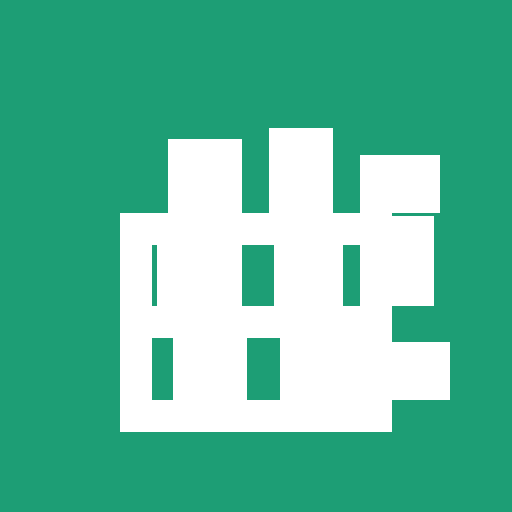
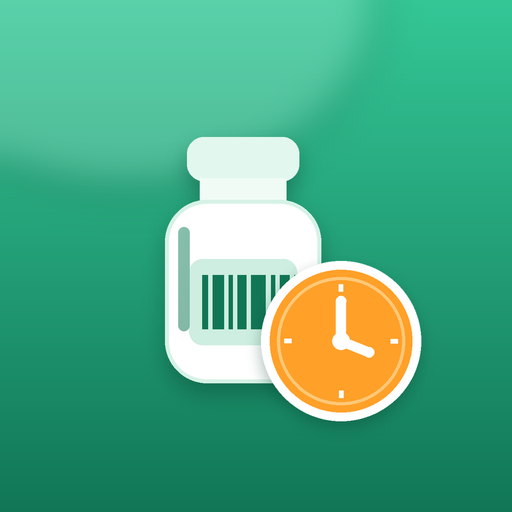
2.1.2: barra delle schede unica con icone complete, layout desktop, icone PWA
La barra in basso era copiata in 5 schermate e in 4 copie le icone erano
troncate (Scansiona = quadrato, Impostazioni = punto, Admin = cerchio). Ora
e' una sola, con la scheda attiva evidenziata da showScreen(). Colonna
centrale su schermi larghi, campo chiave API e checkbox in tema scuro, aree
di tocco piu' grandi, icone della PWA con il disegno dell'add-on. Nuovo
tests/test_gui.js.

diff --git a/dispensa_manager/www/index.html b/dispensa_manager/www/index.html
@@ -114,14 +114,6 @@
       <div id="lista-prodotti"><div class="empty"><div class="spinner"></div></div></div>
     </div>
   </div>
-  <div class="tab-bar">
-    <div class="tab active" onclick="showTab('inventario')"><svg viewBox="0 0 24 24"><path d="M3 9l9-7 9 7v11a2 2 0 01-2 2H5a2 2 0 01-2-2z"/><polyline points="9 22 9 12 15 12 15 22"/></svg><span>Dispensa</span></div>
-    <div class="tab" onclick="showTab('scan')"><svg viewBox="0 0 24 24"><rect x="3" y="3" width="18" height="18" rx="2"/><line x1="7" y1="8" x2="7" y2="16"/><line x1="10" y1="8" x2="10" y2="16"/><line x1="14" y1="8" x2="14" y2="16"/><line x1="17" y1="8" x2="17" y2="16"/></svg><span>Scansiona</span></div>
-    <div class="tab" onclick="showTab('spesa')"><svg viewBox="0 0 24 24"><path d="M6 2L3 6v14a2 2 0 002 2h14a2 2 0 002-2V6l-3-4z"/><line x1="3" y1="6" x2="21" y2="6"/><path d="M16 10a4 4 0 01-8 0"/></svg><span>Spesa</span></div>
-    <div class="tab" onclick="showTab('statistiche')"><svg viewBox="0 0 24 24"><line x1="18" y1="20" x2="18" y2="10"/><line x1="12" y1="20" x2="12" y2="4"/><line x1="6" y1="20" x2="6" y2="14"/></svg><span>Statistiche</span></div>
-    <div class="tab" onclick="showTab('impostazioni')"><svg viewBox="0 0 24 24"><circle cx="12" cy="12" r="3"/><path d="M19.4 15a1.65 1.65 0 00.33 1.82l.06.06a2 2 0 010 2.83 2 2 0 01-2.83 0l-.06-.06a1.65 1.65 0 00-1.82-.33 1.65 1.65 0 00-1 1.51V21a2 2 0 01-4 0v-.09A1.65 1.65 0 009 19.4a1.65 1.65 0 00-1.82.33l-.06.06a2 2 0 01-2.83-2.83l.06-.06A1.65 1.65 0 004.68 15a1.65 1.65 0 00-1.51-1H3a2 2 0 010-4h.09A1.65 1.65 0 004.6 9a1.65 1.65 0 00-.33-1.82l-.06-.06a2 2 0 012.83-2.83l.06.06A1.65 1.65 0 009 4.68a1.65 1.65 0 001-1.51V3a2 2 0 014 0v.09a1.65 1.65 0 001 1.51 1.65 1.65 0 001.82-.33l.06-.06a2 2 0 012.83 2.83l-.06.06A1.65 1.65 0 0019.4 9a1.65 1.65 0 001.51 1H21a2 2 0 010 4h-.09a1.65 1.65 0 00-1.51 1z"/></svg><span>Impostazioni</span></div>
-    <div class="tab tab-admin" onclick="showTab('admin')"><svg viewBox="0 0 24 24"><path d="M17 21v-2a4 4 0 00-4-4H5a4 4 0 00-4 4v2"/><circle cx="9" cy="7" r="4"/><path d="M23 21v-2a4 4 0 00-3-3.87"/><path d="M16 3.13a4 4 0 010 7.75"/></svg><span>Admin</span></div>
-  </div>
 </div>
 
 <!-- SCREEN: Scanner -->
@@ -269,14 +261,6 @@
     <button class="btn btn-primary" onclick="inviaListaSpesaTelegram()" style="margin-bottom:10px;">📤 Invia su Telegram</button>
     <button class="btn btn-secondary" onclick="svuotaCompletati()">🗑 Rimuovi completati</button>
   </div>
-  <div class="tab-bar">
-    <div class="tab" onclick="showTab('inventario')"><svg viewBox="0 0 24 24"><path d="M3 9l9-7 9 7v11a2 2 0 01-2 2H5a2 2 0 01-2-2z"/><polyline points="9 22 9 12 15 12 15 22"/></svg><span>Dispensa</span></div>
-    <div class="tab" onclick="showTab('scan')"><svg viewBox="0 0 24 24"><rect x="3" y="3" width="18" height="18" rx="2"/><line x1="7" y1="8" x2="7" y2="16"/><line x1="10" y1="8" x2="10" y2="16"/><line x1="14" y1="8" x2="14" y2="16"/><line x1="17" y1="8" x2="17" y2="16"/></svg><span>Scansiona</span></div>
-    <div class="tab active" onclick="showTab('spesa')"><svg viewBox="0 0 24 24"><path d="M6 2L3 6v14a2 2 0 002 2h14a2 2 0 002-2V6l-3-4z"/><line x1="3" y1="6" x2="21" y2="6"/><path d="M16 10a4 4 0 01-8 0"/></svg><span>Spesa</span></div>
-    <div class="tab" onclick="showTab('statistiche')"><svg viewBox="0 0 24 24"><line x1="18" y1="20" x2="18" y2="10"/><line x1="12" y1="20" x2="12" y2="4"/><line x1="6" y1="20" x2="6" y2="14"/></svg><span>Statistiche</span></div>
-    <div class="tab" onclick="showTab('impostazioni')"><svg viewBox="0 0 24 24"><circle cx="12" cy="12" r="3"/></svg><span>Impostazioni</span></div>
-    <div class="tab tab-admin" onclick="showTab('admin')"><svg viewBox="0 0 24 24"><circle cx="9" cy="7" r="4"/></svg><span>Admin</span></div>
-  </div>
 </div>
 
 <!-- SCREEN: Statistiche -->
@@ -286,14 +270,6 @@
   </div>
   <div class="content" id="stat-content">
     <div class="empty"><div class="spinner"></div></div>
-  </div>
-  <div class="tab-bar">
-    <div class="tab" onclick="showTab('inventario')"><svg viewBox="0 0 24 24"><path d="M3 9l9-7 9 7v11a2 2 0 01-2 2H5a2 2 0 01-2-2z"/></svg><span>Dispensa</span></div>
-    <div class="tab" onclick="showTab('scan')"><svg viewBox="0 0 24 24"><rect x="3" y="3" width="18" height="18" rx="2"/></svg><span>Scansiona</span></div>
-    <div class="tab" onclick="showTab('spesa')"><svg viewBox="0 0 24 24"><path d="M6 2L3 6v14a2 2 0 002 2h14a2 2 0 002-2V6l-3-4z"/></svg><span>Spesa</span></div>
-    <div class="tab active" onclick="showTab('statistiche')"><svg viewBox="0 0 24 24"><line x1="18" y1="20" x2="18" y2="10"/></svg><span>Statistiche</span></div>
-    <div class="tab" onclick="showTab('impostazioni')"><svg viewBox="0 0 24 24"><circle cx="12" cy="12" r="3"/></svg><span>Impostazioni</span></div>
-    <div class="tab tab-admin" onclick="showTab('admin')"><svg viewBox="0 0 24 24"><circle cx="9" cy="7" r="4"/></svg><span>Admin</span></div>
   </div>
 </div>
 
@@ -335,14 +311,6 @@
       <button class="btn btn-secondary" onclick="doLogout()" style="color:var(--red);">🚪 Esci (logout)</button>
     </div>
     <div style="text-align: center; margin-top: 20px; font-size: 12px; color: var(--hint);">Dispensa Manager v2.0.19</div>
-  </div>
-  <div class="tab-bar">
-    <div class="tab" onclick="showTab('inventario')"><svg viewBox="0 0 24 24"><path d="M3 9l9-7 9 7v11a2 2 0 01-2 2H5a2 2 0 01-2-2z"/></svg><span>Dispensa</span></div>
-    <div class="tab" onclick="showTab('scan')"><svg viewBox="0 0 24 24"><rect x="3" y="3" width="18" height="18" rx="2"/></svg><span>Scansiona</span></div>
-    <div class="tab" onclick="showTab('spesa')"><svg viewBox="0 0 24 24"><path d="M6 2L3 6v14a2 2 0 002 2h14a2 2 0 002-2V6l-3-4z"/></svg><span>Spesa</span></div>
-    <div class="tab" onclick="showTab('statistiche')"><svg viewBox="0 0 24 24"><line x1="18" y1="20" x2="18" y2="10"/></svg><span>Statistiche</span></div>
-    <div class="tab active" onclick="showTab('impostazioni')"><svg viewBox="0 0 24 24"><circle cx="12" cy="12" r="3"/></svg><span>Impostazioni</span></div>
-    <div class="tab tab-admin" onclick="showTab('admin')"><svg viewBox="0 0 24 24"><circle cx="9" cy="7" r="4"/></svg><span>Admin</span></div>
   </div>
 </div>
 
@@ -412,7 +380,7 @@
       <div class="admin-section-title">🔑 API Key per automazioni HA</div>
       <div style="font-size:13px;color:var(--muted);margin-bottom:10px;line-height:1.5;">Usa <code style="background:var(--bg);padding:2px 6px;border-radius:4px;">x-api-key</code> nei tuoi rest_command. Stabile tra riavvii.</div>
       <div style="display:flex;gap:8px;align-items:stretch;margin-bottom:10px;">
-        <input type="text" id="api-key-display" readonly style="flex:1 1 auto;min-width:0;font-family:monospace;font-size:13px;" placeholder="caricamento...">
+        <input type="text" id="api-key-display" class="setting-input" readonly aria-label="API key" style="flex:1 1 auto;min-width:0;margin-bottom:0;font-family:monospace;font-size:13px;" placeholder="caricamento...">
         <button class="btn-sm btn-sm-green" style="flex:0 0 auto;white-space:nowrap;" onclick="copiaApiKey()">📋 Copia</button>
       </div>
       <button class="btn-danger" style="width:100%;padding:10px;" onclick="apriRigeneraApiKey()">🔄 Rigenera chiave</button>
@@ -445,14 +413,6 @@
         </div>
       </div>
     </div>
-  </div>
-  <div class="tab-bar">
-    <div class="tab" onclick="showTab('inventario')"><svg viewBox="0 0 24 24"><path d="M3 9l9-7 9 7v11a2 2 0 01-2 2H5a2 2 0 01-2-2z"/></svg><span>Dispensa</span></div>
-    <div class="tab" onclick="showTab('scan')"><svg viewBox="0 0 24 24"><rect x="3" y="3" width="18" height="18" rx="2"/></svg><span>Scansiona</span></div>
-    <div class="tab" onclick="showTab('spesa')"><svg viewBox="0 0 24 24"><path d="M6 2L3 6v14a2 2 0 002 2h14a2 2 0 002-2V6l-3-4z"/></svg><span>Spesa</span></div>
-    <div class="tab" onclick="showTab('statistiche')"><svg viewBox="0 0 24 24"><line x1="18" y1="20" x2="18" y2="10"/></svg><span>Statistiche</span></div>
-    <div class="tab" onclick="showTab('impostazioni')"><svg viewBox="0 0 24 24"><circle cx="12" cy="12" r="3"/></svg><span>Impostazioni</span></div>
-    <div class="tab tab-admin active" onclick="showTab('admin')"><svg viewBox="0 0 24 24"><circle cx="9" cy="7" r="4"/></svg><span>Admin</span></div>
   </div>
 </div>
 
@@ -567,6 +527,16 @@
     </div>
   </div>
 </div>
+
+<!-- Barra delle schede unica: le icone stanno qui una sola volta, showScreen() evidenzia quella attiva -->
+<nav class="tab-bar" id="tab-bar">
+    <div class="tab active" data-tab="inventario" role="button" tabindex="0" aria-label="Dispensa" onclick="showTab('inventario')"><svg aria-hidden="true" viewBox="0 0 24 24"><path d="M3 9l9-7 9 7v11a2 2 0 01-2 2H5a2 2 0 01-2-2z"/><polyline points="9 22 9 12 15 12 15 22"/></svg><span>Dispensa</span></div>
+    <div class="tab" data-tab="scan" role="button" tabindex="0" aria-label="Scansiona" onclick="showTab('scan')"><svg aria-hidden="true" viewBox="0 0 24 24"><rect x="3" y="3" width="18" height="18" rx="2"/><line x1="7" y1="8" x2="7" y2="16"/><line x1="10" y1="8" x2="10" y2="16"/><line x1="14" y1="8" x2="14" y2="16"/><line x1="17" y1="8" x2="17" y2="16"/></svg><span>Scansiona</span></div>
+    <div class="tab" data-tab="spesa" role="button" tabindex="0" aria-label="Spesa" onclick="showTab('spesa')"><svg aria-hidden="true" viewBox="0 0 24 24"><path d="M6 2L3 6v14a2 2 0 002 2h14a2 2 0 002-2V6l-3-4z"/><line x1="3" y1="6" x2="21" y2="6"/><path d="M16 10a4 4 0 01-8 0"/></svg><span>Spesa</span></div>
+    <div class="tab" data-tab="statistiche" role="button" tabindex="0" aria-label="Statistiche" onclick="showTab('statistiche')"><svg aria-hidden="true" viewBox="0 0 24 24"><line x1="18" y1="20" x2="18" y2="10"/><line x1="12" y1="20" x2="12" y2="4"/><line x1="6" y1="20" x2="6" y2="14"/></svg><span>Statistiche</span></div>
+    <div class="tab" data-tab="impostazioni" role="button" tabindex="0" aria-label="Impostazioni" onclick="showTab('impostazioni')"><svg aria-hidden="true" viewBox="0 0 24 24"><circle cx="12" cy="12" r="3"/><path d="M19.4 15a1.65 1.65 0 00.33 1.82l.06.06a2 2 0 010 2.83 2 2 0 01-2.83 0l-.06-.06a1.65 1.65 0 00-1.82-.33 1.65 1.65 0 00-1 1.51V21a2 2 0 01-4 0v-.09A1.65 1.65 0 009 19.4a1.65 1.65 0 00-1.82.33l-.06.06a2 2 0 01-2.83-2.83l.06-.06A1.65 1.65 0 004.68 15a1.65 1.65 0 00-1.51-1H3a2 2 0 010-4h.09A1.65 1.65 0 004.6 9a1.65 1.65 0 00-.33-1.82l-.06-.06a2 2 0 012.83-2.83l.06.06A1.65 1.65 0 009 4.68a1.65 1.65 0 001-1.51V3a2 2 0 014 0v.09a1.65 1.65 0 001 1.51 1.65 1.65 0 001.82-.33l.06-.06a2 2 0 012.83 2.83l-.06.06A1.65 1.65 0 0019.4 9a1.65 1.65 0 001.51 1H21a2 2 0 010 4h-.09a1.65 1.65 0 00-1.51 1z"/></svg><span>Impostazioni</span></div>
+    <div class="tab tab-admin" data-tab="admin" role="button" tabindex="0" aria-label="Admin" onclick="showTab('admin')"><svg aria-hidden="true" viewBox="0 0 24 24"><path d="M17 21v-2a4 4 0 00-4-4H5a4 4 0 00-4 4v2"/><circle cx="9" cy="7" r="4"/><path d="M23 21v-2a4 4 0 00-3-3.87"/><path d="M16 3.13a4 4 0 010 7.75"/></svg><span>Admin</span></div>
+</nav>
 
 <script src="vendor/chart.umd.min.js"></script>
 <script src="vendor/zxing.min.js"></script>

diff --git a/tests/test_gui.js b/tests/test_gui.js
@@ -1,0 +1,42 @@
+// Controlli statici sulla GUI: node tests/test_gui.js
+// La barra delle schede era copiata in 5 schermate e in 4 copie le icone erano troncate:
+// questo test fallisce se una copia torna o se un'icona perde pezzi.
+const fs = require('fs');
+const path = require('path');
+const www = path.join(__dirname, '..', 'dispensa_manager', 'www');
+const html = fs.readFileSync(path.join(www, 'index.html'), 'utf8');
+const js = fs.readFileSync(path.join(www, 'app.js'), 'utf8');
+const css = fs.readFileSync(path.join(www, 'style.css'), 'utf8');
+
+let ok = 0, tot = 0;
+function verifica(nome, vero) { tot++; if (vero) ok++; console.log((vero ? 'OK  ' : 'FAIL') + ' | ' + nome); }
+
+verifica('una sola barra delle schede', (html.match(/class="tab-bar"/g) || []).length === 1);
+
+const barra = (html.match(/<nav class="tab-bar"[\s\S]*?<\/nav>/) || [''])[0];
+const schede = [...barra.matchAll(/<div class="tab[^"]*" data-tab="([a-z]+)"[\s\S]*?<\/svg><span>([^<]+)<\/span><\/div>/g)];
+verifica('sei schede', schede.length === 6);
+verifica('ordine e nomi', schede.map(s => s[1]).join() === 'inventario,scan,spesa,statistiche,impostazioni,admin');
+
+// elementi minimi per riconoscere l'icona (la casa ha tetto+porta, la scansione il riquadro+4 barre, ecc.)
+const minimi = { inventario: 2, scan: 5, spesa: 3, statistiche: 3, impostazioni: 2, admin: 4 };
+for (const s of schede) {
+  const figli = (s[0].match(/<(path|line|rect|circle|polyline)\b/g) || []).length;
+  verifica('icona completa: ' + s[1] + ' (' + figli + ' elementi, minimo ' + minimi[s[1]] + ')', figli >= minimi[s[1]]);
+}
+verifica("l'icona delle impostazioni e' un ingranaggio, non un punto", /data-tab="impostazioni"[\s\S]*?<path d="M19\.4 15/.test(barra));
+
+// ogni scheda porta a una schermata che esiste e ha la sua scheda evidenziata
+const mappa = [...js.matchAll(/'(screen-[a-z]+)': '([a-z]+)'/g)].map(m => [m[1], m[2]]);
+verifica('mappa schermata→scheda coerente con la barra',
+  mappa.length === 5 && mappa.every(([sch, tab]) => html.includes('id="' + sch + '"') && schede.some(s => s[1] === tab)));
+verifica('showScreen aggiorna la barra', /function showScreen\(id\) \{[\s\S]{0,400}aggiornaTabBar\(id\)/.test(js));
+
+verifica('colonna centrale su schermi larghi', /@media \(min-width: 700px\)[\s\S]*\.tab-bar \{ left: 50%/.test(css));
+verifica("la regola per schermi larghi sta dopo la regola base di .tab-bar (altrimenti viene sovrascritta)",
+  css.lastIndexOf('.tab-bar { left: 50%') > css.indexOf('.tab-bar {\n  position: fixed') || css.lastIndexOf('.tab-bar { left: 50%') > css.indexOf('.tab-bar {\r\n  position: fixed'));
+verifica('campo chiave API con lo stile degli altri campi', /id="api-key-display" class="setting-input"/.test(html));
+verifica('controlli nativi scuri in tema scuro', /\.dark \{ color-scheme: dark; \}/.test(css));
+
+console.log(ok + '/' + tot);
+process.exit(ok === tot ? 0 : 1);

diff --git a/dispensa_manager/www/style.css b/dispensa_manager/www/style.css
@@ -21,6 +21,10 @@ body {
 .screen { display: none; flex-direction: column; min-height: 100dvh; }
 .screen.active { display: flex; }
 
+/* Controlli nativi (checkbox, scrollbar) in tema scuro, con l'accento dell'app */
+.dark { color-scheme: dark; }
+input[type="checkbox"] { accent-color: var(--green); width: 20px; height: 20px; flex-shrink: 0; }
+
 .topbar {
   background: var(--surface); border-bottom: 0.5px solid var(--border);
   padding: calc(var(--safe-top) + 8px) 16px 12px;
@@ -40,6 +44,7 @@ body {
   box-shadow: 0 -1px 8px rgba(0,0,0,0.06);
 }
 .dark .tab-bar { box-shadow: 0 -1px 8px rgba(0,0,0,0.4); }
+.tab:focus-visible { outline: 2px solid var(--green); outline-offset: -2px; border-radius: 10px; }
 .tab {
   flex: 1; display: flex; flex-direction: column; align-items: center;
   padding: 10px 4px 6px; cursor: pointer; gap: 3px;
@@ -233,6 +238,9 @@ body {
 .spesa-check.done::after { content: '\2713'; color: white; font-size: 13px; font-weight: 700; }
 .spesa-nome { flex: 1; font-size: 15px; font-weight: 500; }
 .spesa-nome.done { text-decoration: line-through; color: var(--hint); }
+/* Aree di tocco: i controlli piccoli restano com'erano alla vista ma si toccano meglio (zona invisibile di 7 px intorno) */
+.quick-btn, .spesa-check, .toggle { position: relative; }
+.quick-btn::before, .spesa-check::before, .toggle::before { content: ''; position: absolute; inset: -7px; }
 .spesa-del { font-size: 18px; color: var(--hint); cursor: pointer; padding: 8px; touch-action: manipulation; }
 
 .dark { --bg: #111110; --surface: #1c1c1a; --text: #f0efe8; --muted: #9e9e94; --hint: #6b6b63; --border: rgba(255,255,255,0.10); --green-l: rgba(29,158,117,0.15); --amber-l: rgba(186,117,23,0.15); --red-l: rgba(163,45,45,0.15); --gray-l: rgba(136,135,128,0.12); }
@@ -344,4 +352,10 @@ body {
   .metric-row { grid-template-columns: repeat(2, 1fr); }
   .metric-val { font-size: 20px; }
   .topbar-title { font-size: 15px; }
+}
+
+/* Schermo largo (PC, tablet orizzontale): colonna centrale come sul telefono, invece di righe lunghe un metro */
+@media (min-width: 700px) {
+  .screen { max-width: 640px; margin: 0 auto; box-shadow: 0 0 0 0.5px var(--border); }
+  .tab-bar { left: 50%; right: auto; width: 100%; max-width: 640px; transform: translateX(-50%); }
 }

diff --git a/dispensa_manager/www/app.js b/dispensa_manager/www/app.js
@@ -186,9 +186,20 @@ let esauritiOpen = false;
 let bulkMode = false;
 let bulkSelected = new Set();
 
+// Schermata → scheda evidenziata nella barra in basso (le altre schermate non hanno la barra)
+const TAB_DI_SCHERMATA = { 'screen-inventario': 'inventario', 'screen-spesa': 'spesa', 'screen-statistiche': 'statistiche', 'screen-impostazioni': 'impostazioni', 'screen-admin': 'admin' };
+function aggiornaTabBar(id) {
+  const bar = document.getElementById('tab-bar');
+  if (!bar) return;
+  const attiva = TAB_DI_SCHERMATA[id];
+  bar.style.display = attiva ? '' : 'none';
+  bar.querySelectorAll('.tab').forEach(t => { t.classList.toggle('active', t.dataset.tab === attiva); if (t.dataset.tab === attiva) t.setAttribute('aria-current', 'page'); else t.removeAttribute('aria-current'); });
+}
+
 function showScreen(id) {
   document.querySelectorAll('.screen').forEach(s => s.classList.remove('active'));
   document.getElementById(id).classList.add('active');
+  aggiornaTabBar(id);
   // Exit bulk mode quando lasciamo inventario
   if (id !== 'screen-inventario' && bulkMode) exitBulkMode();
   if (id === 'screen-inventario') caricaInventario();
@@ -197,6 +208,11 @@ function showScreen(id) {
   if (id === 'screen-scan') avviaScanner();
   else fermaScanner();
 }
+
+document.addEventListener('keydown', (e) => {
+  const t = e.target && e.target.closest ? e.target.closest('.tab') : null;
+  if (t && (e.key === 'Enter' || e.key === ' ')) { e.preventDefault(); t.click(); }
+});
 
 function showTab(tab) {
   if (tab === 'inventario') showScreen('screen-inventario');

diff --git a/dispensa_manager/www/sw.js b/dispensa_manager/www/sw.js
@@ -1,4 +1,4 @@
-const CACHE = 'dispensa-v12';
+const CACHE = 'dispensa-v13';
 
 // Librerie leggere in locale: pronte subito. Quelle pesanti dell'OCR (worker, core WASM, dati lingua)
 // si mettono in cache alla prima lettura.

diff --git a/dispensa_manager/database.py b/dispensa_manager/database.py
@@ -15,7 +15,7 @@ OPTIONS_PATH = "/data/options.json"
 IMAGES_DIR = os.path.join(os.path.dirname(DB_PATH), "dispensa", "images")
 BACKUPS_DIR = os.path.join(os.path.dirname(DB_PATH), "dispensa", "backups")
 
-APP_VERSION = "2.1.1"
+APP_VERSION = "2.1.2"
 SCHEMA_VERSION = 7
 
 

diff --git a/CHANGELOG.md b/CHANGELOG.md
@@ -5,6 +5,25 @@ Il formato segue [Keep a Changelog](https://keepachangelog.com/it/1.0.0/).
 
 ---
 
+## [2.1.2] — 2026-11-02
+
+Revisione della GUI pagina per pagina (inventario, scansione, conferma, dettaglio, modifica, spesa, statistiche, impostazioni, admin) su telefono e PC.
+
+### Icone
+- **Barra delle schede con le icone complete.** La barra in basso era copiata 5 volte nell'HTML, una per schermata, e in 4 copie le icone erano troncate: nelle pagine Spesa, Statistiche, Impostazioni e Admin «Scansiona» era un semplice quadrato, «Impostazioni» un puntino, «Admin» un cerchio, «Statistiche» una sola barra. Ora la barra e' una sola (`<nav id="tab-bar">`) e `showScreen()` evidenzia la scheda attiva; le schermate di dettaglio, scansione e modifica non la mostrano, come prima.
+- La barra e' navigabile da tastiera (Tab, Invio, Spazio) e le schede hanno etichetta per i lettori di schermo.
+- **Icone della PWA** (`icon-192.png`, `icon-512.png`) con lo stesso disegno dell'icona dell'add-on, a quadrato pieno (iOS e le maschere di Android arrotondano da soli) e con il disegno nella zona sicura. Il vecchio quadrato verde con sagome bianche e' sostituito. Una PWA gia' installata puo' tenere la vecchia icona finche' non viene reinstallata.
+
+### Layout e aspetto
+- **Schermi larghi** (PC, tablet orizzontale): colonna centrale di 640 px, con la barra delle schede centrata, invece di righe lunghe quanto lo schermo.
+- **Tema scuro**: il campo della chiave API era bianco e ora ha lo stile degli altri campi; checkbox, scrollbar e controlli nativi seguono il tema (`color-scheme: dark`) con l'accento verde dell'app.
+- **Aree di tocco**: pulsanti +/−, spunta e interruttori della lista spesa e delle impostazioni restano com'erano alla vista ma hanno una zona di tocco di circa 40 px (erano 28 px).
+
+### Test
+- `tests/test_gui.js` (16 controlli): una sola barra, sei schede nell'ordine giusto, ogni icona con tutti i suoi elementi, mappa schermata→scheda, regola per schermi larghi dopo quella base, campo chiave API.
+
+---
+
 ## [2.1.1] — 2026-11-01
 
 ### Ban IP con scadenza
